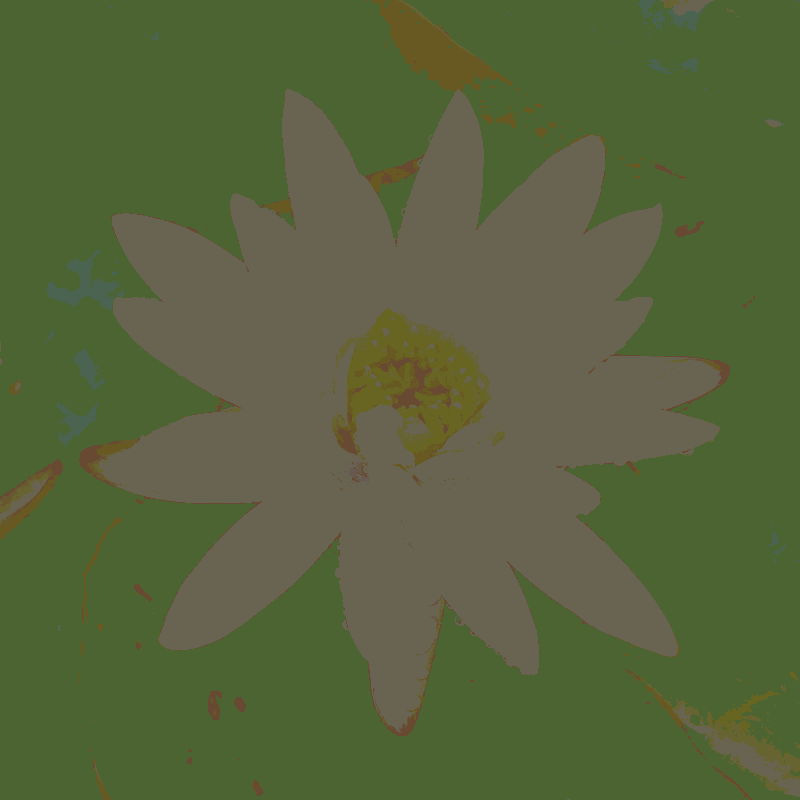
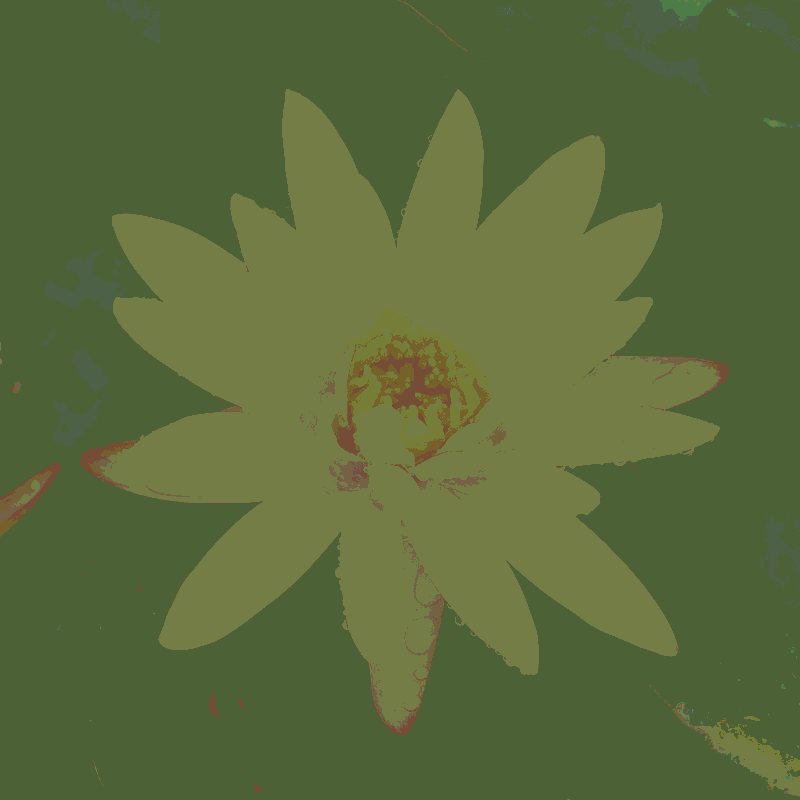
commentaire

diff --git a/src/personalSolution/Main_Perso.java b/src/personalSolution/Main_Perso.java
@@ -9,12 +9,23 @@ import java.util.ArrayList;
 import java.util.Comparator;
 import java.util.HashMap;
 
-public class Main {
+public class Main_Perso {
 
     public static void main(String[] args) {
 
-        String fichier = args[0];
-        int nb_couleurs = Integer.parseInt(args[1]);
+        String fichier = "originale.jpg";
+        int nb_couleurs = 15;
+        String file_name = "./bi_limite_"+nb_couleurs+".png";
+
+        switch (args.length){
+            case 3:
+                file_name = args[2];
+            case 2:
+                nb_couleurs = Integer.parseInt(args[1]);
+            case 1:
+                fichier = args[0];
+        }
+
 
         BufferedImage bi = null;
         try {
@@ -48,48 +59,34 @@ public class Main {
         ArrayList<Integer> x_greens = new ArrayList<>();
         ArrayList<Integer> x_blues = new ArrayList<>();
         for(int i = 0; i < nb_couleurs; i++){
-            x_reds.add(Outil.randomX(red_map));
-            x_greens.add(Outil.randomX(green_map));
-            x_blues.add(Outil.randomX(green_map));
+            x_reds.add(Outil.randomX(red_map, bi.getWidth(),bi.getHeight()));
+            x_greens.add(Outil.randomX(green_map,bi.getWidth(),bi.getHeight()));
+            x_blues.add(Outil.randomX(green_map,bi.getWidth(),bi.getHeight()));
         }
 
 
-        int pas = 2;
+        int dx = 2;
         int alpha = 2;
-        int dx = pas * alpha;
         int epoch = 100;
 
 
         for(int fois = 0 ; fois < epoch ; fois++){
-            System.out.println("----Epoch"+fois+"--");
+            System.out.println("--Epoch"+fois+"--");
 
             for(int index_x = 0; index_x < nb_couleurs ; index_x++){
                 //Red
-                evalution(red_map, x_reds, dx, index_x);
+                evalution(red_map, x_reds, dx, index_x, alpha);
 
                 //Green
-                evalution(green_map, x_greens, dx, index_x);
+                evalution(green_map, x_greens, dx, index_x, alpha);
 
                 //Blue
-                evalution(blue_map, x_blues, dx, index_x);
+                evalution(blue_map, x_blues, dx, index_x, alpha);
             }
 
         }
 
-        System.out.println("X Red:");
-        for(int i = 0 ; i < nb_couleurs ; i++){
-            System.out.println(x_reds.get(i));
-        }
-
-        System.out.println("X Green:");
-        for(int i = 0 ; i < nb_couleurs ; i++){
-            System.out.println(x_greens.get(i));
-        }
-
-        System.out.println("X Blue:");
-        for(int i = 0 ; i < nb_couleurs ; i++){
-            System.out.println(x_blues.get(i));
-        }
+        System.out.println("Waiting...");
 
 
         ArrayList<CD> cds = new ArrayList<CD>();
@@ -101,7 +98,7 @@ public class Main {
                     long distances = 0;
                     for(int x = 0; x < bi.getWidth(); x++){
                         for(int y = 0; y < bi.getHeight(); y++){
-                            distances += Outil.distanceDeuxCouleur(c.getRGB(),bi.getRGB(x,y));
+                            distances += Outil.distanceDeuxCouleurs(c.getRGB(),bi.getRGB(x,y));
                         }
                     }
                     cds.add(new CD(c,distances));
@@ -133,7 +130,7 @@ public class Main {
                 Color resultat = null;
                 long min_distance = Integer.MAX_VALUE;
                 for(Color c : colors){
-                    long d = Outil.distanceDeuxCouleur(c.getRGB(),c_bi.getRGB());
+                    long d = Outil.distanceDeuxCouleurs(c.getRGB(),c_bi.getRGB());
                     if(min_distance > d){
                         min_distance = d;
                         resultat = c;
@@ -144,7 +141,6 @@ public class Main {
             }
         }
 
-        String file_name = "./bi_limite_"+nb_couleurs+".png";
         try {
             ImageIO.write(bi_limite, "PNG", new File(file_name));
         } catch (IOException e) {
@@ -153,34 +149,34 @@ public class Main {
 
     }
 
-    private static void evalution(HashMap<Integer, Integer> map, ArrayList<Integer> x, int dx, int index_x) {
-        int xr = x.get(index_x);
+    private static void evalution(HashMap<Integer, Integer> map, ArrayList<Integer> x_list, int dx, int index_x, int alpha) {
+        int x = x_list.get(index_x);
 
-        int xr_moins = xr - dx;
-        int xr_plus = xr + dx;
+        int x_moins = x - dx;
+        int x_plus = x + dx;
 
-        ArrayList<Integer> dmr = new ArrayList<>(x);
-        dmr.remove(Integer.valueOf(xr));
-        dmr.add(xr_moins);
+        ArrayList<Integer> dm = new ArrayList<>(x_list);
+        dm.remove(Integer.valueOf(x));
+        dm.add(x_moins);
 
-        ArrayList<Integer> dpr = new ArrayList<>(x);
-        dpr.remove(Integer.valueOf(xr));
-        dpr.add(xr_plus);
+        ArrayList<Integer> dp = new ArrayList<>(x_list);
+        dp.remove(Integer.valueOf(x));
+        dp.add(x_plus);
 
-        long distance_moins_r = 0;
-        long distance_plus_r = 0;
+        long distance_moins = 0;
+        long distance_plus = 0;
 
         for(int i = 0; i < 256 ; i++){
             for(int j = 0; j < map.get(i);j++){
-                distance_plus_r += Outil.distance_proche(i,dpr);
-                distance_moins_r += Outil.distance_proche(i,dmr);
+                distance_plus += Outil.distance_proche(i,dp);
+                distance_moins += Outil.distance_proche(i,dm);
             }
         }
 
-        if(distance_plus_r > distance_moins_r){
-            x.set(index_x, xr_moins);
+        if(distance_plus > distance_moins){
+            x_list.set(index_x, Math.max((x - (dx * alpha)), 0));
         }else {
-            x.set(index_x, xr_plus);
+            x_list.set(index_x, Math.min((x + (dx * alpha)), 255));
         }
     }
 }

diff --git a/src/personalSolution/Outil.java b/src/personalSolution/Outil.java
@@ -5,18 +5,37 @@ import java.util.Random;
 
 public class Outil {
 
+    /**
+     * Analyser la valeur de getRGB() et la convertir en un tableau.
+     * @param color la valeur de getRGB()
+     * @return Un tableau contenant trois éléments (R : int[0] - G : int[1] - B : int[2])
+     */
     public static int[] analyseRGB(int color){
         return new int[]{(color & 0xFF0000) >> 16, (color & 0xFF00) >> 8, color & 0xFF};
     }
 
-    public static long distanceDeuxCouleur(int color1, int color2){
+    /**
+     * Retourner la valeur de distance entre deux couleurs.
+     * @param color1 la couleur à comparer 1
+     * @param color2 la couleur à comparer 2
+     * @return Distance (long)
+     */
+    public static long distanceDeuxCouleurs(int color1, int color2){
         int[] rgbs1 = analyseRGB(color1);
         int[] rgbs2 = analyseRGB(color2);
         return ((long) (rgbs1[0] - rgbs2[0]) * (rgbs1[0] - rgbs2[0]) + (long) (rgbs1[1] - rgbs2[1]) * (rgbs1[1] - rgbs2[1]) + (long) (rgbs1[2] - rgbs2[2]) * (rgbs1[2] - rgbs2[2]));
     }
 
-    public static int randomX(HashMap<Integer, Integer> map){
-        int valueRandom = new Random().nextInt(640000);
+    /**
+     * En fonction de la Map fournie,
+     * retourner aléatoirement une valeur conforme à sa distribution de probabilité (entre 0 et 255).
+     * @param map Map，la clé est comprise entre 0 et 255, représentant la couleur, et la valeur de Map représente le nombre d'occurrences de cette couleur dans l'image
+     * @param largeur la largeur de l'image
+     * @param hauteur la hauteur de l'image
+     * @return Un nombre aléatoire x, entre 0 et 255
+     */
+    public static int randomX(HashMap<Integer, Integer> map, int largeur, int hauteur){
+        int valueRandom = new Random().nextInt(largeur * hauteur);
         for(int i = 0; i < 256 ; i++){
             valueRandom -= map.get(i);
             if(valueRandom <= 0){
@@ -26,7 +45,13 @@ public class Outil {
         throw new Error("Unknown error occurred in randomX");
     }
 
-    public static int distance_proche(int target, ArrayList<Integer> param){
+    /**
+     * Retourner la plus petite distance entre le chiffre cible et les chiffres dans un tableau
+     * @param target le chiffre cible
+     * @param param le tableau
+     * @return la plus petite distance (long)
+     */
+    public static long distance_proche(int target, ArrayList<Integer> param){
 
         int min = Integer.MAX_VALUE;
         for(int i : param){
@@ -37,8 +62,5 @@ public class Outil {
         }
         return min;
     }
-
-
-
 
 }

diff --git a/src/personalSolution/CD.java b/src/personalSolution/CD.java
@@ -2,6 +2,9 @@ package personalSolution;
 
 import java.awt.*;
 
+/**
+ * CD : Couleur et Distances
+ */
 public class CD {
     private Color color;
     private long distances;

diff --git a/src/personalSolution/text.md b/src/personalSolution/text.md
@@ -1,0 +1,6 @@
+# Solution Personelle
+
+---
+## idée principale:
+
+²
